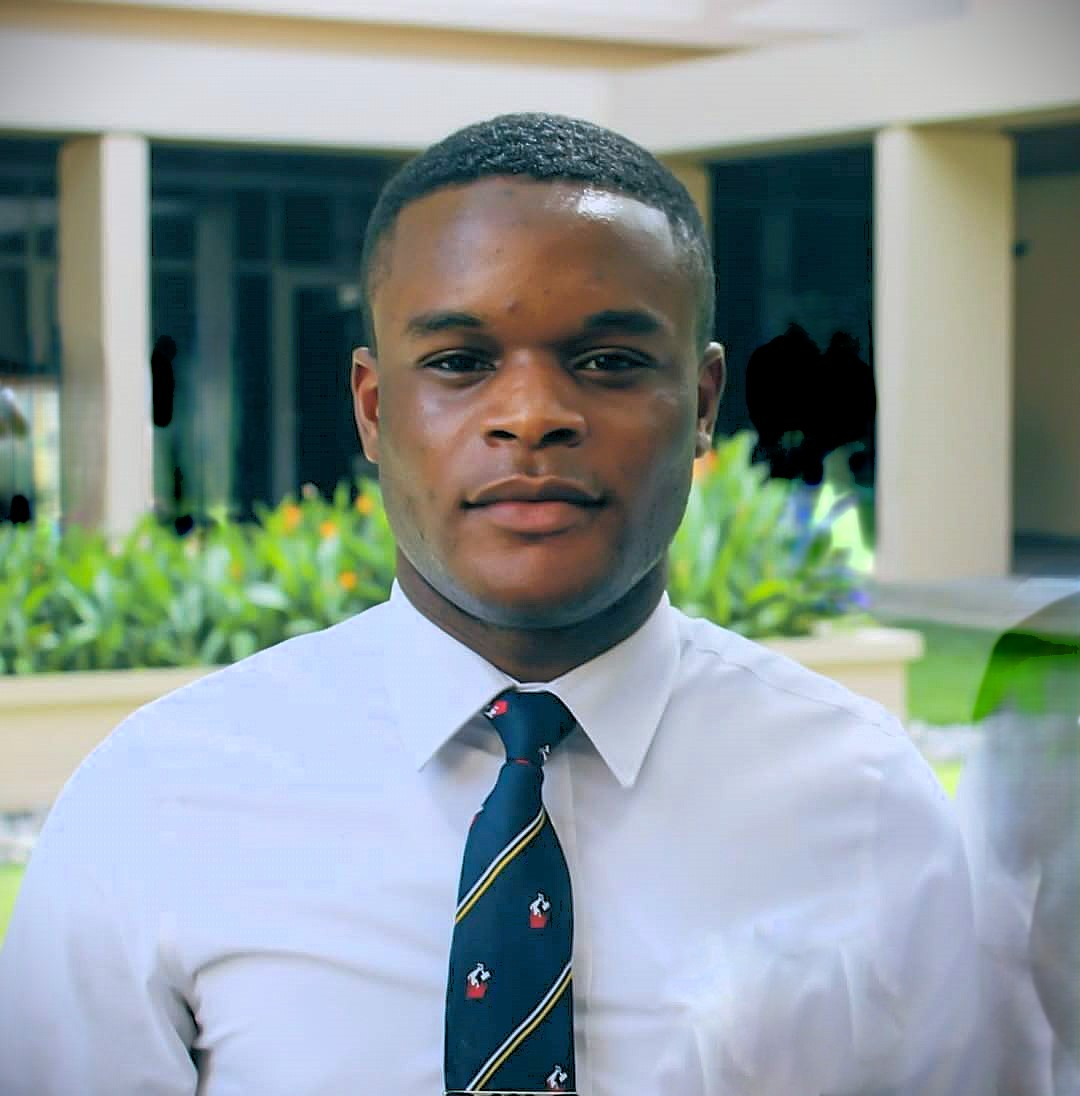
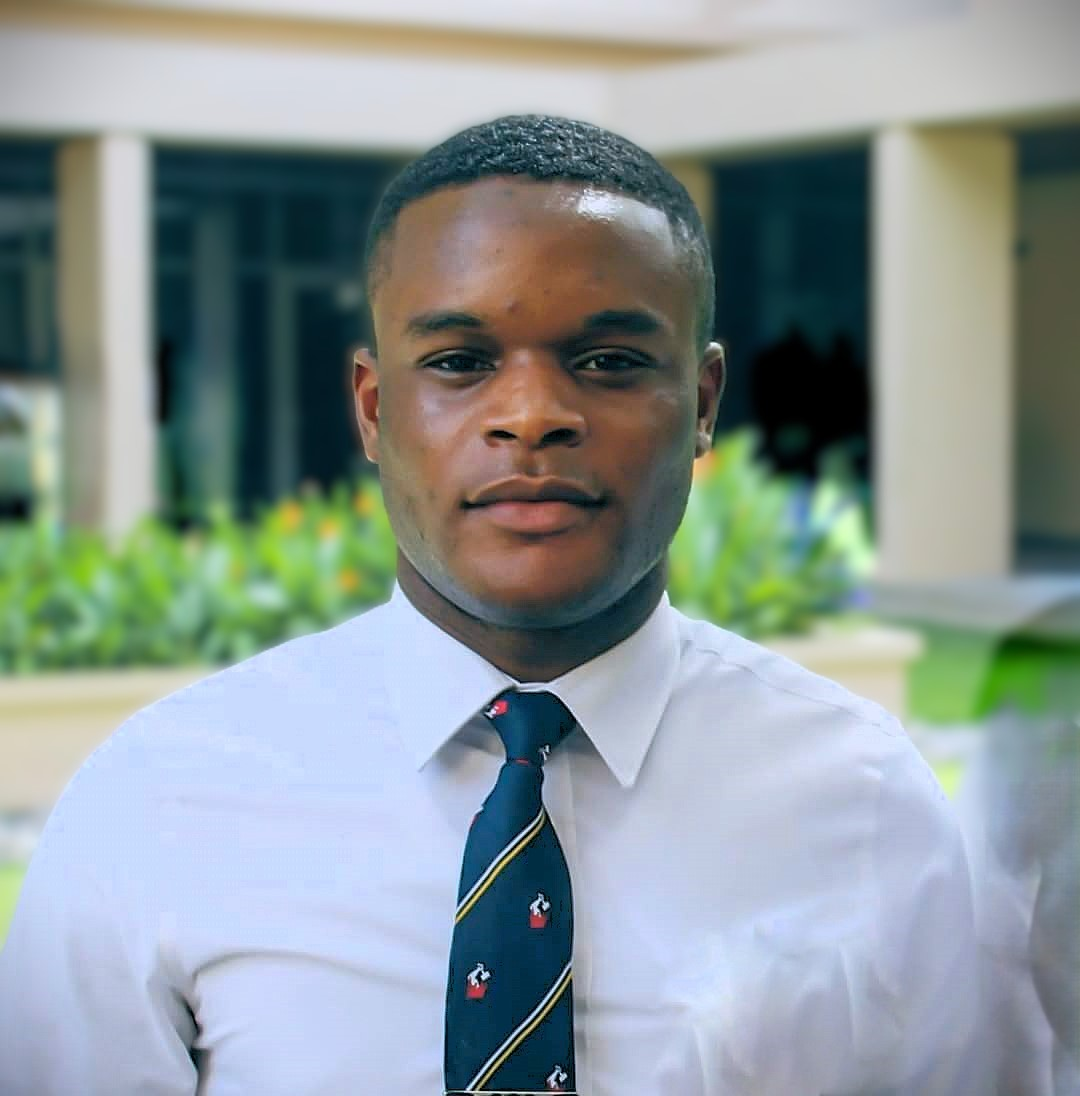
I cleared some unnecessary elements, changed the photo to meet the required size, and added <p> element to the footer

diff --git a/index.html b/index.html
@@ -4,29 +4,25 @@
 <head>
     <meta charset="UTF-8">
     <meta name="viewport" content="width=device-width, initial-scale=1.0">
-    <title>WDD 130 | Personal Homepage</title>
+    <title>Victor Etim | WDD 130 </title>
 </head>
 
 <body>
-    <h1> Victor Etim WDD | 130</h1>
-    <p>This page will become your homepage for the course. This course is my first step in programming.</p>
-
-
-    <body>
-        <header>
-            <nav>
-                <a href="#">Home</a>
-                <a href="wwr/">Rafting Website</a>
-            </nav>
-        </header>
-        <main <h1>Victor Etim | WDD 130.003 </h1>
-            <img src="images/profile.jpg.jpg" alt="Hey, my name is Victor Etim" width="200">
-            <p>You are welcome to my page, feel free to look around and ask questions and clarifications
-                you may have about the course. I am excited to learn more about web development and enhance my skills
-            </p>
-        </main>
-        <footer>©Copyright year 2025, all rights reserved by Victor Etim Lagos, Nigeria👍.
-        </footer>
-    </body>
+    <header>
+        <nav>
+            <a href="#">Home</a>
+            <a href="wwr/">Rafting Website</a>
+        </nav>
+    </header>
+    <main>
+        <h1>Victor Etim | WDD 130 </h1>
+        <img src="images/profile.jpg.jpg" alt="Hey, my name is Victor Etim" width="200">
+        <p>You are welcome to my page, feel free to look around and ask questions and clarifications
+            you may have about the course. I am excited to learn more about web development and enhance my skills</p>
+    </main>
+    <footer>
+        <p>©Copyright year 2025, all rights reserved by Victor Etim Lagos, Nigeria👍.</p>
+    </footer>
+</body>
 
 </html>
